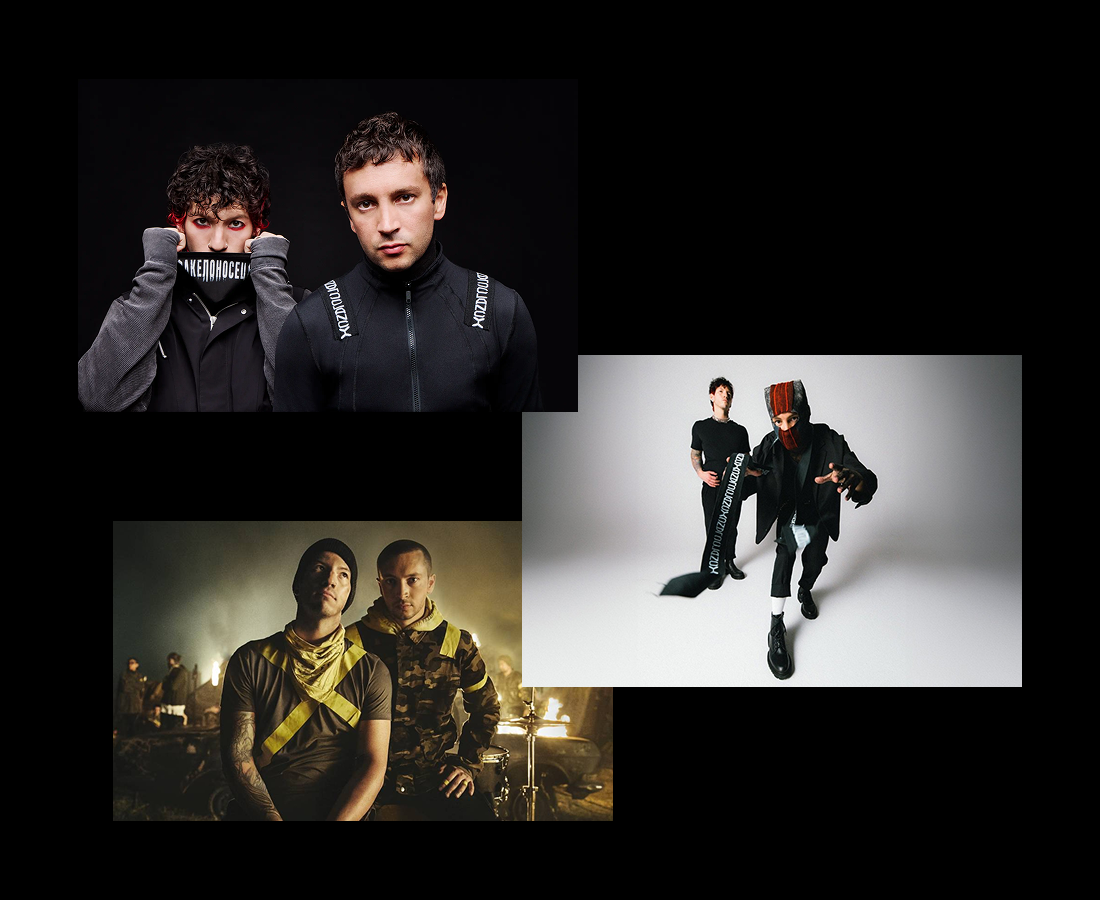
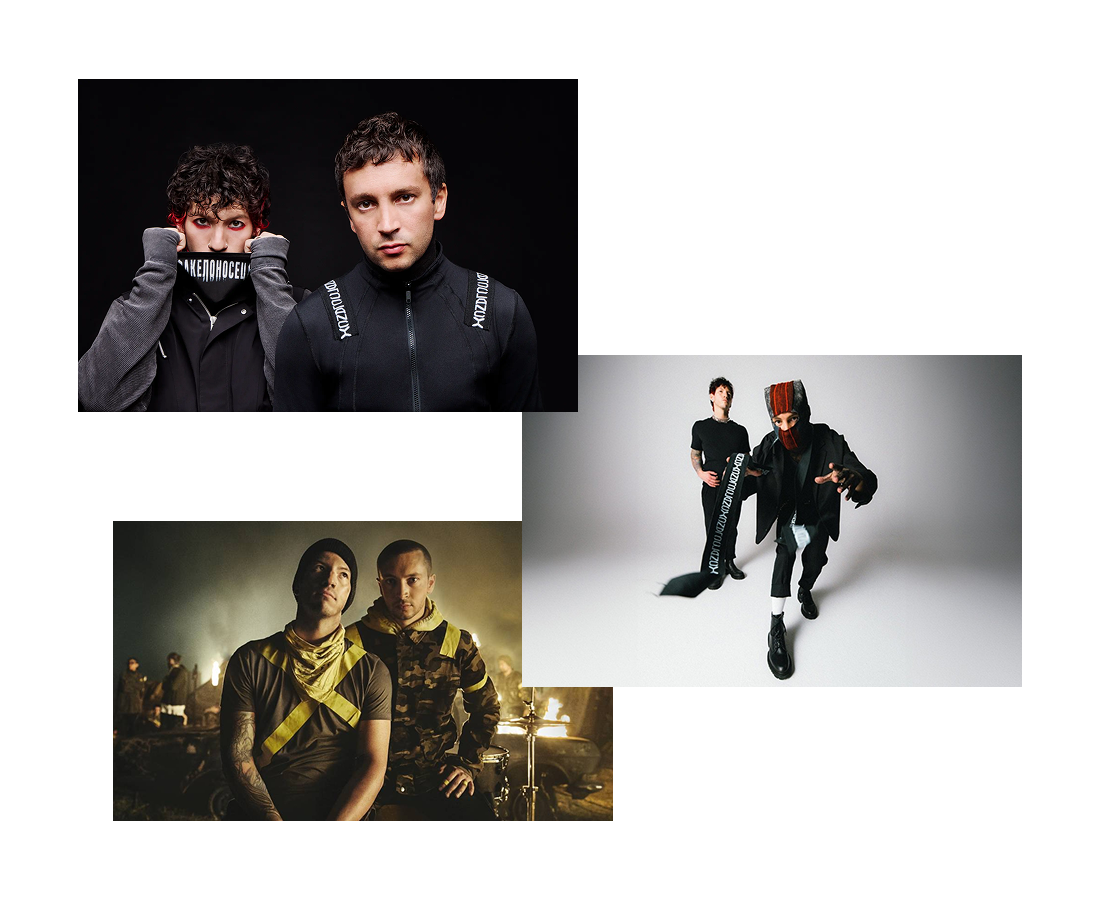
Adicionando a primeira versao da section Albuns

diff --git a/src/App.tsx b/src/App.tsx
@@ -1,8 +1,20 @@
 import { useState } from 'react';
 import './App.css';
 import { characters } from './data/characters';
+import { albuns } from './data/albuns';
 
 function App() {
+
+  const [activeIndex, setActiveIndex] = useState(0);
+
+  const activeAlbum = albuns[activeIndex];
+  const prevIndex = (activeIndex - 1 + albuns.length) % albuns.length;
+  const nextIndex = (activeIndex + 1) % albuns.length;
+  const prevAlbum = albuns[prevIndex];
+  const nextAlbum = albuns[nextIndex];
+
+  const goToPrev = () => setActiveIndex(prevIndex);
+  const goToNext = () => setActiveIndex(nextIndex);
 
   return (
     <div>
@@ -18,16 +30,69 @@ function App() {
           <h2>REGIÕES</h2>
         </nav>
       </header>
+
       <section id="background" className="background">
         <img src="/background.png" alt="foto de fundo" />
       </section>
+      
       <section id="sobre" className="sobre">
         <img src="/sobre-image.png" alt="foto da logo" className="sobre-image" />
-        <div>
+        <div style={{marginRight: '50px'}}>
           <h2 style={{fontSize: '50px', fontFamily: 'Anton, sans-serif'}}>SOBRE</h2>
-          <p>Twenty One Pilots é uma banda</p>
+          <p>
+            Formada em Columbus, Ohio, em 2009, a Twenty One Pilots nasceu como trio antes de se consolidar na dupla que conhecemos hoje: Tyler Joseph, vocalista, tecladista e compositor principal, e Josh Dun, baterista, que entrou pra banda em 2011. <br />
+            O som da dupla é difícil de encaixar numa única categoria — misturam rock alternativo, hip hop, eletrônico e pop, muitas vezes dentro da mesma música. Essa recusa em seguir fórmulas é parte da identidade deles desde o início, assim como os shows ao vivo intensos e as máscaras e figurinos que carregam significado dentro do universo que construíram. <br />
+            Mais do que uma discografia, a Twenty One Pilots criou uma narrativa contínua que atravessa seus álbuns — personagens, símbolos e uma cidade fictícia chamada Dema formam uma lore que os fãs vêm decifrando junto com a banda há mais de uma década. Cada disco, de Vessel (2013) a Clancy (2024), adiciona uma nova camada a essa história.
+          </p>
         </div>
       </section>
+      
+      <section
+        id="albuns"
+        className="albuns"
+        style = {{ background: `linear-gradient(180deg, #000 0%, ${activeAlbum.backgroundColor} 100%)` }}
+      >
+        <div className="albuns-carousel">
+          <img
+            src={prevAlbum.imageUrl}
+            alt={prevAlbum.name}
+            className="albuns-preview albuns-preview-left"
+            onClick={goToPrev}
+          />
+
+          <img
+            src={activeAlbum.imageUrl}
+            alt={activeAlbum.name}
+            className="albuns-cover"
+          />
+
+          <img
+            src={nextAlbum.imageUrl}
+            alt={nextAlbum.name}
+            className="albuns-preview albuns-preview-right"
+            onClick={goToNext}
+          />
+        </div>
+
+        <div className="albuns-options">
+          <span
+            className="arrow-left"
+            style={{ backgroundColor: activeAlbum.arrowsColor }}
+            onClick={goToPrev}
+            role="button"
+            aria-label="Álbum anterior"
+          />
+          <p style={{ color: activeAlbum.foregroundColor }}>{activeAlbum.name}</p>
+          <span
+            className="arrow-right"
+            style={{ backgroundColor: activeAlbum.arrowsColor }}
+            onClick={goToNext}
+            role="button"
+            aria-label="Próximo álbum"
+          />
+        </div>
+      </section>
+
     </div>
   );
 }

diff --git a/src/App.css b/src/App.css
@@ -70,3 +70,77 @@ header h2 {
   height: 900px;
   width: 1100px;
 }
+
+.albuns {
+  display: flex;
+  flex-direction: column;
+  align-items: center;
+}
+
+.albuns-options {
+  display: flex;
+  align-items: center;
+  font-family: 'Anton', sans-serif;
+  font-size: 30px;
+}
+
+.albuns-cover {
+  /* height: 500px;
+  width: 500px;
+  margin-top: 50px; */
+
+  width: 500px;
+  height: 500px;
+  object-fit: cover;
+  transition: all 0.4s ease;
+}
+
+.albuns-carousel {
+  display: flex;
+  align-items: center;
+  justify-content: center;
+  gap: 2rem;
+}
+
+.albuns-preview {
+  width: 200px;
+  height: 200px;
+  object-fit: cover;
+  opacity: 0.3;
+  filter: blur(2px);
+  transform: scale(0.85);
+  transition: all 0.8s ease;
+  cursor: pointer;
+}
+
+.albuns-preview:hover {
+  opacity: 0.5;
+}
+
+.arrow-left {
+  width: 24px;
+  height: 24px;
+  background-color: currentColor;
+  clip-path: polygon(100% 0%, 0% 50%, 100% 100%);
+  display: inline-block;
+  margin-right: 50px;
+  transition: transform 0.8s;
+}
+
+.arrow-left:hover {
+  transform: scale(1.25);
+}
+
+.arrow-right {
+  width: 24px;
+  height: 24px;
+  background-color: currentColor;
+  clip-path: polygon(0% 0%, 100% 50%, 0% 100%);
+  display: inline-block;
+  margin-left: 50px;
+  transition: transform 0.8s;
+}
+
+.arrow-right:hover {
+  transform: scale(1.25);
+}

diff --git a/src/data/albuns.ts b/src/data/albuns.ts
@@ -1,0 +1,60 @@
+import type { Album } from '../types';
+
+export const albuns: Album[] = [
+  {
+    id: 1,
+    name: 'Twenty One Pilots',
+    imageUrl: 'album1.png',
+    backgroundColor: '#2E0F29',
+    foregroundColor: '#fff',
+    arrowsColor: '#9CCB41',
+  },
+  {
+    id: 2,
+    name: 'Vessel',
+    imageUrl: 'album2.png',
+    backgroundColor: '#0B121A',
+    foregroundColor: '#fff',
+    arrowsColor: '#89909A',
+  },
+  {
+    id: 3,
+    name: 'Blurryface',
+    imageUrl: 'album3.png',
+    backgroundColor: '#1a1a1a6e',
+    foregroundColor: '#fff',
+    arrowsColor: '#E95139',
+  },
+  {
+    id: 4,
+    name: 'Trench',
+    imageUrl: 'album4.png',
+    backgroundColor: '#23241C',
+    foregroundColor: '#fff',
+    arrowsColor: '#E5CC0A',
+  },
+  {
+    id: 5,
+    name: 'Scaled and Icy',
+    imageUrl: 'album5.png',
+    backgroundColor: '#7bc0c963',
+    foregroundColor: '#fff',
+    arrowsColor: '#EF8CAF',
+  },
+  {
+    id: 6,
+    name: 'Clancy',
+    imageUrl: 'album6.png',
+    backgroundColor: '#e23d3734',
+    foregroundColor: '#fff',
+    arrowsColor: '#FCE51C',
+  },
+  {
+    id: 7,
+    name: 'Breach',
+    imageUrl: 'album7.png',
+    backgroundColor: '#2B1716',
+    foregroundColor: '#fff',
+    arrowsColor: '#E34A3D',
+  },
+];

diff --git a/src/types/index.ts b/src/types/index.ts
@@ -6,3 +6,19 @@ export interface Character {
   description: string;
   faction?: 'Dema' | 'Trench' | 'Bishops';
 }
+
+export interface Album {
+  id: number;
+  name: string;
+  imageUrl: string;
+  backgroundColor: string;
+  foregroundColor: string;
+  arrowsColor: string;
+}
+
+export interface Region {
+  id: number;
+  name: string;
+  imageUrl: string;
+  accentColor: string;
+}
